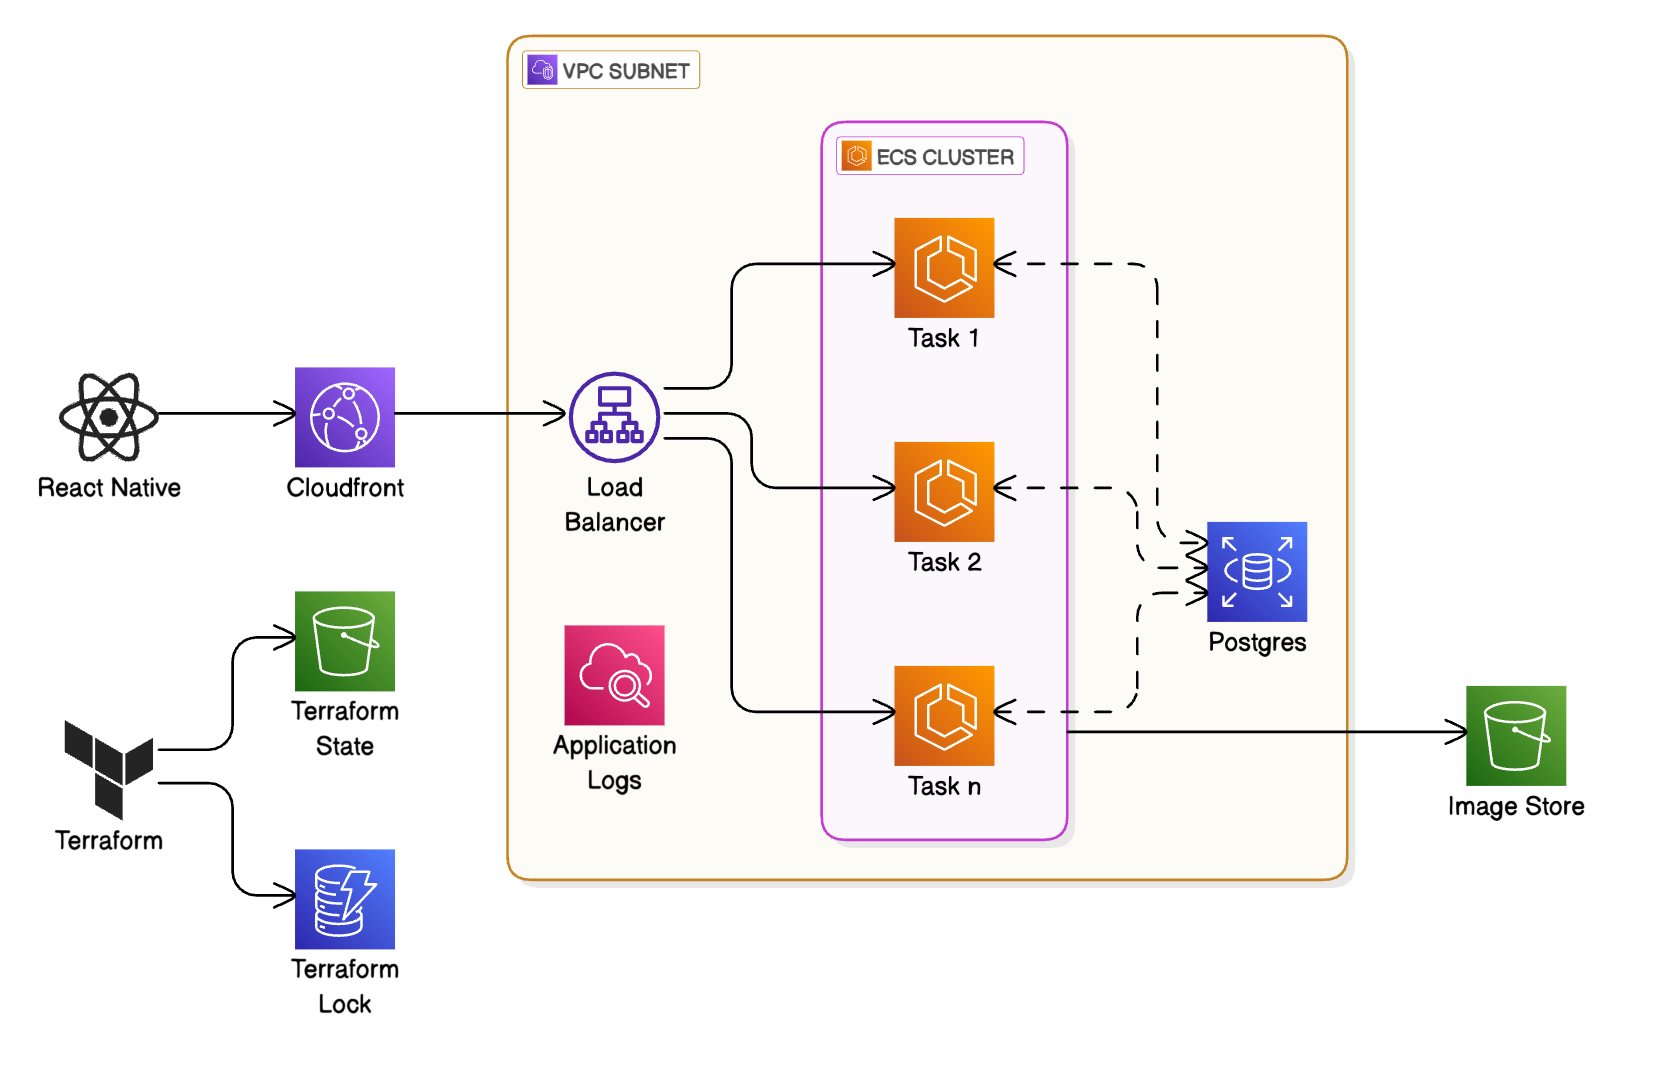
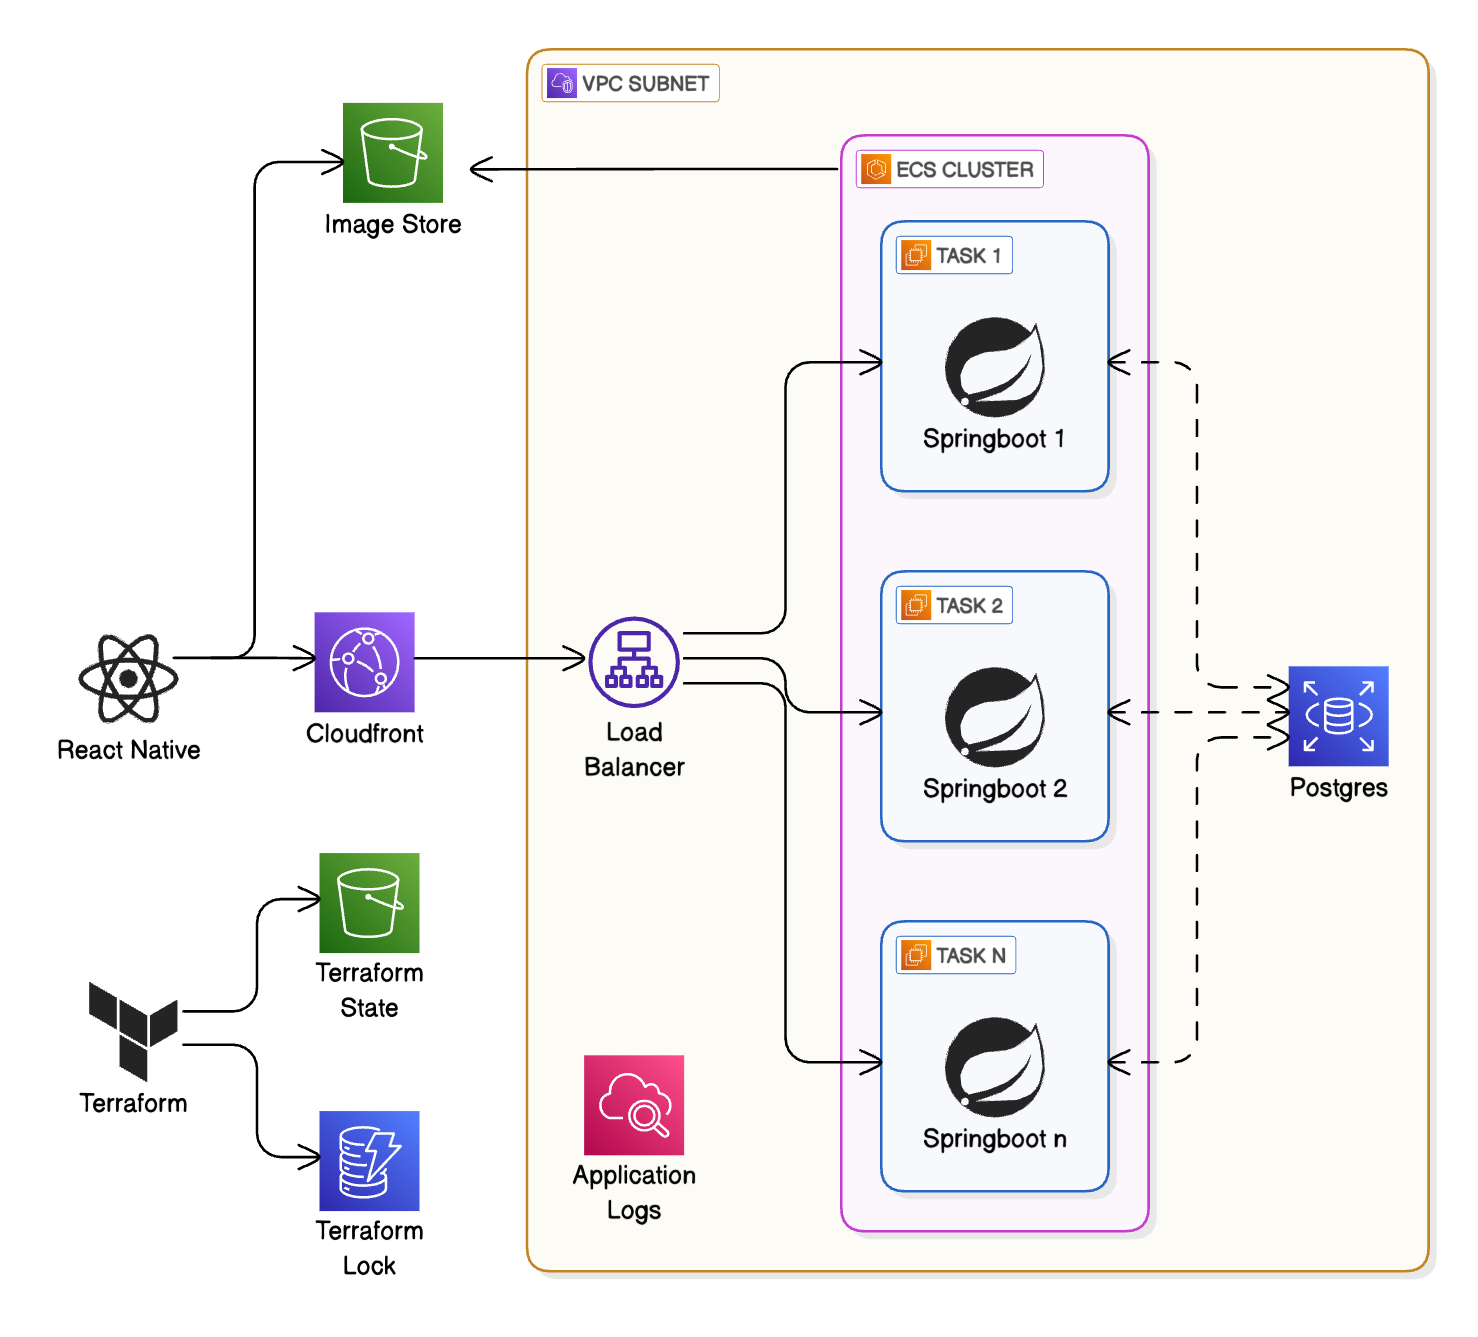
??

diff --git a/README.md b/README.md
@@ -1,5 +1,5 @@
 # Auris Loading
-[Infra![](https://app.eraser.io/workspace/C8IkHL71sTBln4veuM8W/preview?elements=lm6EcKWIoVfgu6iPfVRe3g&type=embed)](https://app.eraser.io/workspace/C8IkHL71sTBln4veuM8W?elements=lm6EcKWIoVfgu6iPfVRe3g)
+![infra.png](infra.png)
 
 ## Infra
 ### Prerequisites
